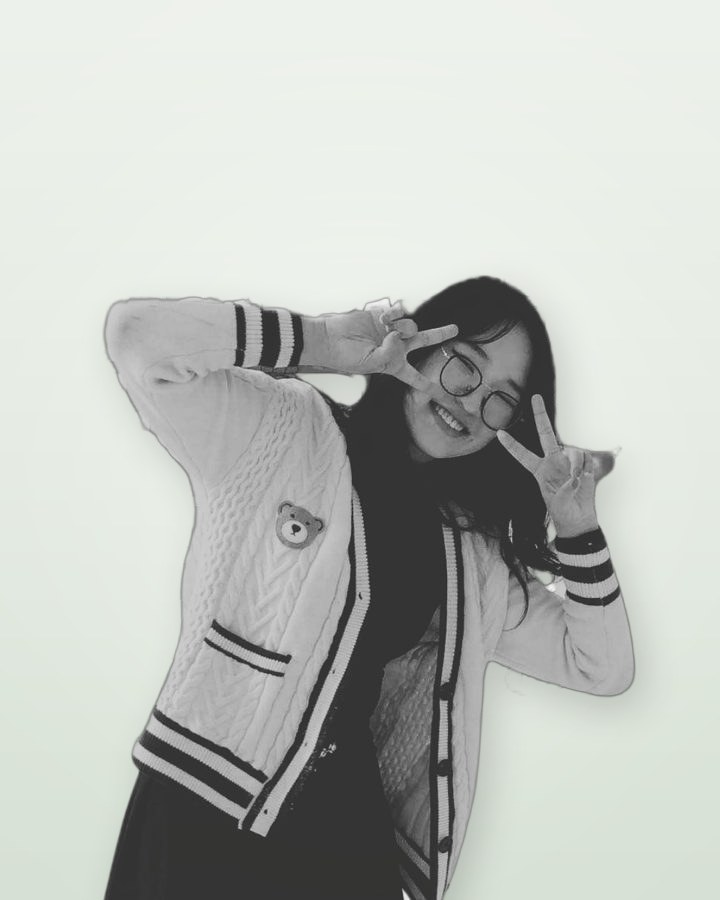
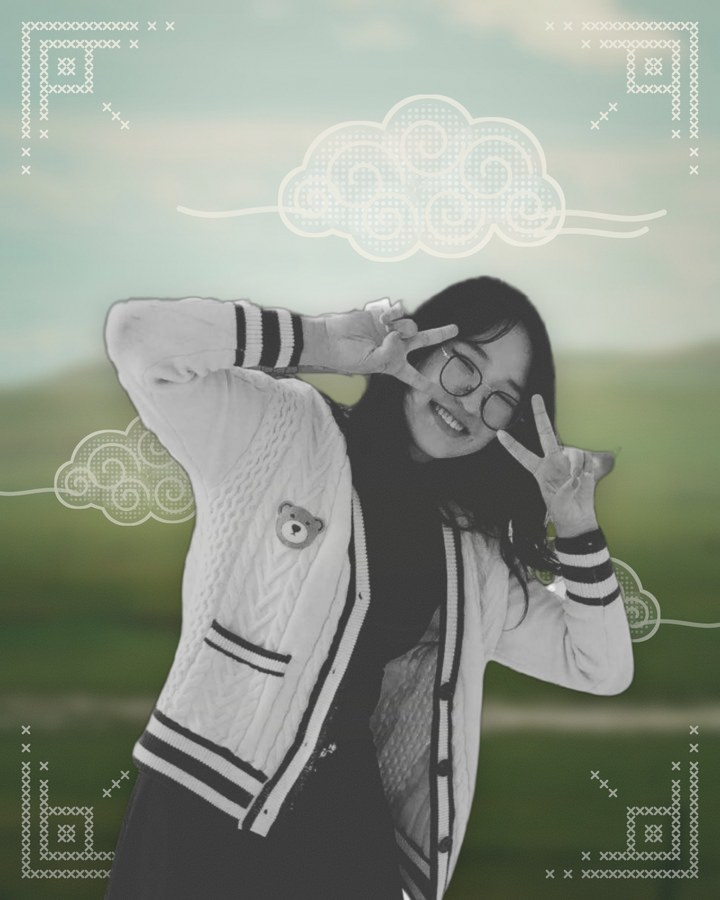
Team photos: blurred steppe background with Mongolian cloud pattern and cross-stitch corners
Claude-Session: https://claude.ai/code/session_015w2YeaPuoH2UidzmstFP66

diff --git a/index.html b/index.html
@@ -342,49 +342,49 @@
       </div>
       <div class="marquee" data-reveal>
         <a class="member" href="member.html?m=bayarmagnai">
-          <div class="member__photo"><img src="assets/img/team-bayarmagnai.jpg?v=2" alt="Bayarmagnai Usukhgerel, Founder of GRIT" loading="lazy"></div>
+          <div class="member__photo"><img src="assets/img/team-bayarmagnai.jpg?v=3" alt="Bayarmagnai Usukhgerel, Founder of GRIT" loading="lazy"></div>
           <p class="member__name">Bayarmagnai Usukhgerel</p>
           <p class="member__school">Founder of GRIT</p>
         </a>
         <a class="member" href="member.html?m=namuunbayar">
-          <div class="member__photo"><img src="assets/img/team-1.jpg?v=2" alt="M. Namuunbayar, Graphic Designer, GRIT EDU program" loading="lazy"></div>
+          <div class="member__photo"><img src="assets/img/team-1.jpg?v=3" alt="M. Namuunbayar, Graphic Designer, GRIT EDU program" loading="lazy"></div>
           <p class="member__name">M. Namuunbayar</p>
           <p class="member__school">Graphic Designer, GRIT EDU program</p>
         </a>
         <a class="member" href="member.html?m=anar">
-          <div class="member__photo"><img src="assets/img/team-2.jpg?v=2" alt="B. Anar, Teacher, GRIT EDU program" loading="lazy"></div>
+          <div class="member__photo"><img src="assets/img/team-2.jpg?v=3" alt="B. Anar, Teacher, GRIT EDU program" loading="lazy"></div>
           <p class="member__name">B. Anar</p>
           <p class="member__school">Teacher, GRIT EDU program</p>
         </a>
         <a class="member" href="member.html?m=munkhdalai">
-          <div class="member__photo"><img src="assets/img/team-3.jpg?v=2" alt="B. Munkhdalai, Teacher, GRIT EDU program" loading="lazy"></div>
+          <div class="member__photo"><img src="assets/img/team-3.jpg?v=3" alt="B. Munkhdalai, Teacher, GRIT EDU program" loading="lazy"></div>
           <p class="member__name">B. Munkhdalai</p>
           <p class="member__school">Teacher, GRIT EDU program</p>
         </a>
         <a class="member" href="member.html?m=enkhgerel">
-          <div class="member__photo"><img src="assets/img/team-4.jpg?v=2" alt="O. Enkhgerel, Manager, GRIT EDU program" loading="lazy"></div>
+          <div class="member__photo"><img src="assets/img/team-4.jpg?v=3" alt="O. Enkhgerel, Manager, GRIT EDU program" loading="lazy"></div>
           <p class="member__name">O. Enkhgerel</p>
           <p class="member__school">Manager, GRIT EDU program</p>
         </a>
         <a class="member" href="member.html?m=tulga">
-          <div class="member__photo"><img src="assets/img/team-5.jpg?v=2" alt="B. Tulga, Teacher, GRIT EDU program" loading="lazy"></div>
+          <div class="member__photo"><img src="assets/img/team-5.jpg?v=3" alt="B. Tulga, Teacher, GRIT EDU program" loading="lazy"></div>
           <p class="member__name">B. Tulga</p>
           <p class="member__school">Teacher, GRIT EDU program</p>
         </a>
         <!-- hidden for now
         <a class="member" href="member.html?m=batzorigt">
-          <div class="member__photo"><img src="assets/img/team-batzorigt.jpg?v=2" alt="G. Batzorigt, Teacher, GRIT EDU program" loading="lazy"></div>
+          <div class="member__photo"><img src="assets/img/team-batzorigt.jpg?v=3" alt="G. Batzorigt, Teacher, GRIT EDU program" loading="lazy"></div>
           <p class="member__name">G. Batzorigt</p>
           <p class="member__school">Teacher, GRIT EDU program</p>
         </a>
         -->
         <a class="member" href="member.html?m=nomin">
-          <div class="member__photo"><img src="assets/img/team-nomin.jpg?v=2" alt="B. Nomin, Teacher, GRIT EDU program" loading="lazy"></div>
+          <div class="member__photo"><img src="assets/img/team-nomin.jpg?v=3" alt="B. Nomin, Teacher, GRIT EDU program" loading="lazy"></div>
           <p class="member__name">B. Nomin</p>
           <p class="member__school">Teacher, GRIT EDU program</p>
         </a>
         <a class="member" href="member.html?m=namuun">
-          <div class="member__photo"><img src="assets/img/team-namuun.jpg?v=2" alt="J. Namuun, Teacher, GRIT EDU program" loading="lazy"></div>
+          <div class="member__photo"><img src="assets/img/team-namuun.jpg?v=3" alt="J. Namuun, Teacher, GRIT EDU program" loading="lazy"></div>
           <p class="member__name">J. Namuun</p>
           <p class="member__school">Teacher, GRIT EDU program</p>
         </a>

diff --git a/js/team.js b/js/team.js
@@ -4,63 +4,63 @@ const TEAM = {
   bayarmagnai: {
     name: "Bayarmagnai Usukhgerel",
     role: "Founder of GRIT",
-    photo: "assets/img/team-bayarmagnai.jpg?v=2",
+    photo: "assets/img/team-bayarmagnai.jpg?v=3",
     responsibilities: "Program lead: finance, organization, university application classes",
     bio: [],
   },
   namuunbayar: {
     name: "M. Namuunbayar",
     role: "Graphic Designer",
-    photo: "assets/img/team-1.jpg?v=2",
+    photo: "assets/img/team-1.jpg?v=3",
     responsibilities: "Design and content",
     bio: [],
   },
   anar: {
     name: "B. Anar",
     role: "Teacher",
-    photo: "assets/img/team-2.jpg?v=2",
+    photo: "assets/img/team-2.jpg?v=3",
     responsibilities: "Teaching",
     bio: [],
   },
   munkhdalai: {
     name: "B. Munkhdalai",
     role: "English Teacher",
-    photo: "assets/img/team-3.jpg?v=2",
+    photo: "assets/img/team-3.jpg?v=3",
     responsibilities: "English, country information",
     bio: [],
   },
   enkhgerel: {
     name: "O. Enkhgerel",
     role: "Program Manager",
-    photo: "assets/img/team-4.jpg?v=2",
+    photo: "assets/img/team-4.jpg?v=3",
     responsibilities: "Organization, country information",
     bio: [],
   },
   tulga: {
     name: "B. Tulga",
     role: "English Teacher",
-    photo: "assets/img/team-5.jpg?v=2",
+    photo: "assets/img/team-5.jpg?v=3",
     responsibilities: "English, cooking",
     bio: [],
   },
   batzorigt: {
     name: "G. Batzorigt",
     role: "Teacher",
-    photo: "assets/img/team-batzorigt.jpg?v=2",
+    photo: "assets/img/team-batzorigt.jpg?v=3",
     responsibilities: "Teaching",
     bio: [],
   },
   nomin: {
     name: "B. Nomin",
     role: "Teacher",
-    photo: "assets/img/team-nomin.jpg?v=2",
+    photo: "assets/img/team-nomin.jpg?v=3",
     responsibilities: "English, country information",
     bio: [],
   },
   namuun: {
     name: "J. Namuun",
     role: "Teacher",
-    photo: "assets/img/team-namuun.jpg?v=2",
+    photo: "assets/img/team-namuun.jpg?v=3",
     responsibilities: "University applications, country information",
     bio: [],
   },

diff --git a/member.html b/member.html
@@ -57,7 +57,7 @@
 
   <main>
     <section class="container profile" id="profile">
-      <div class="profile__photo" data-reveal><img id="member-photo" src="assets/img/team-1.jpg?v=2" alt=""></div>
+      <div class="profile__photo" data-reveal><img id="member-photo" src="assets/img/team-1.jpg?v=3" alt=""></div>
       <div>
         <p class="eyebrow" data-reveal>GRIT team · GRIT EDU program</p>
         <h1 class="profile__name" id="member-name" data-reveal>M. Namuunbayar</h1>
